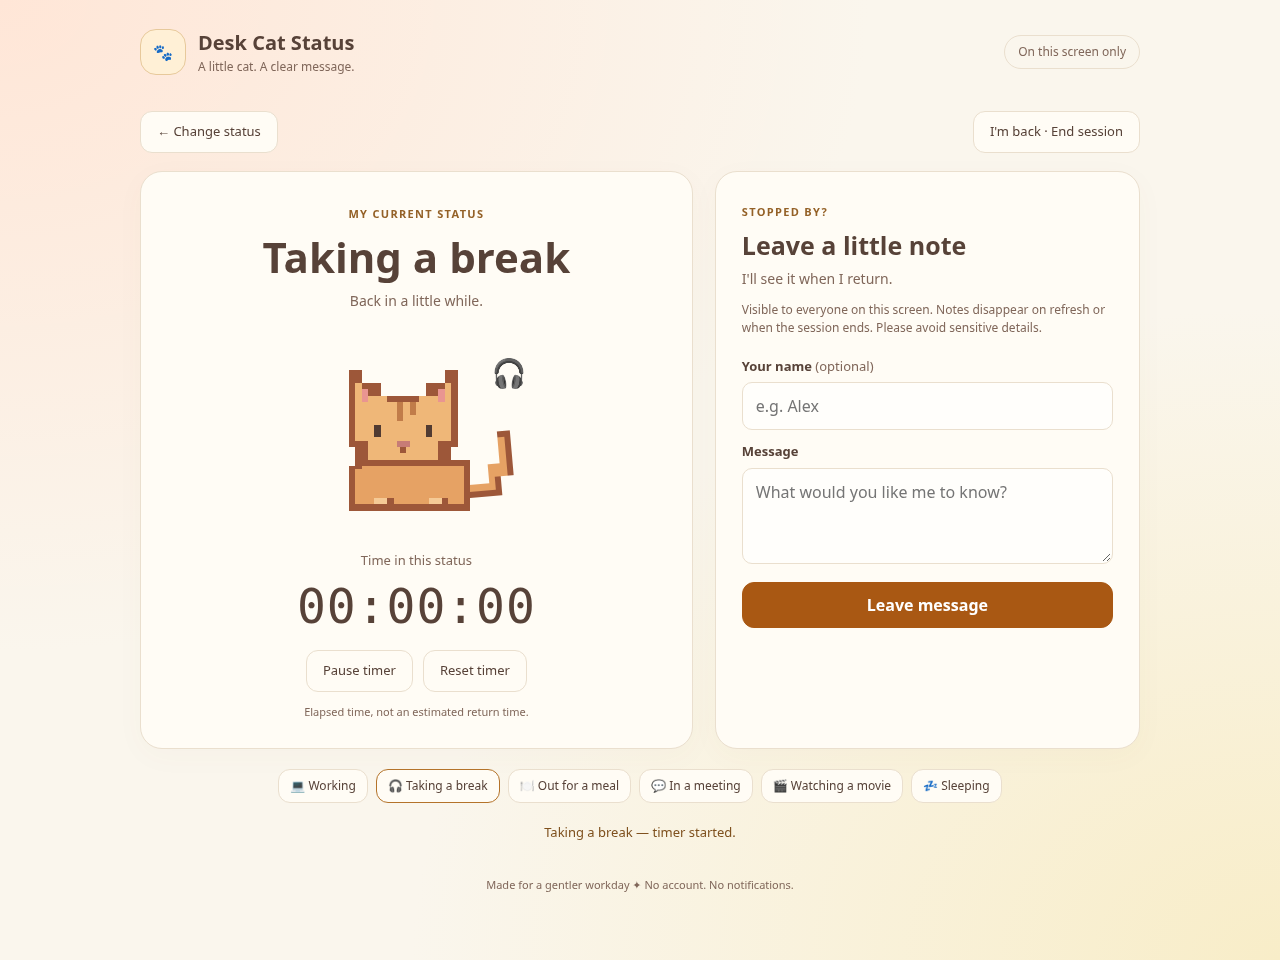
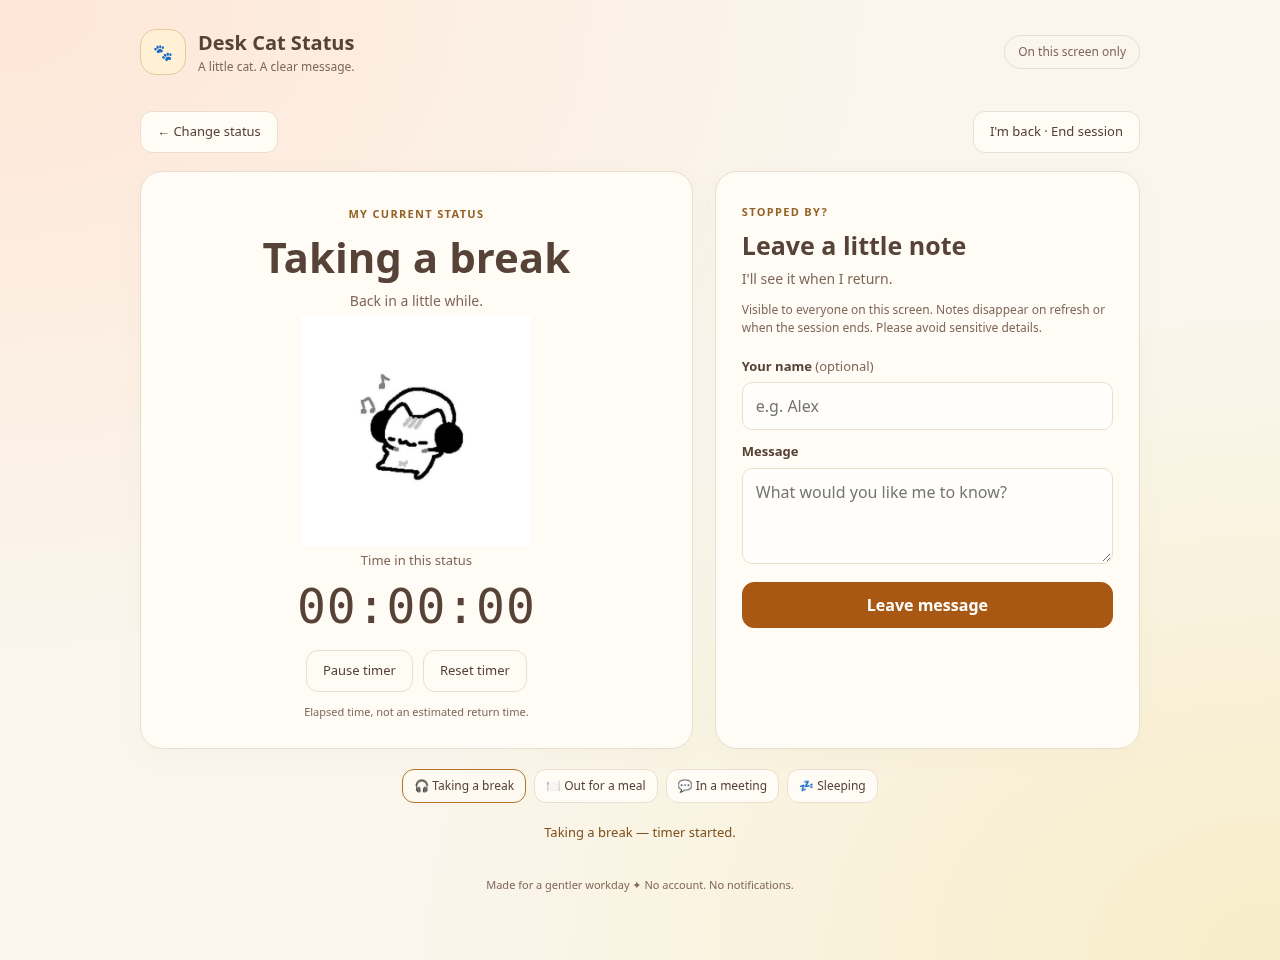
Add five supplied cat GIFs and simplify status choices

Changed region(s): [[0.25, 0.375, 0.4062, 0.5312], [0.2188, 0.7812, 0.7812, 0.8438]]

diff --git a/style.css b/style.css
@@ -1,1 +1,4 @@
 :root{color-scheme:light;--ink:#574238;--muted:#80675a;--border:#eadfce;--paper:#fffcf5;--accent:#a95813}*{box-sizing:border-box}body{margin:0;background:#faf6ed;color:var(--ink);font:16px/1.5 ui-rounded,"Trebuchet MS",system-ui,sans-serif;background-image:radial-gradient(ellipse at 0 0,#ffe6d7,transparent 48%),radial-gradient(ellipse at 100% 100%,#f8edc8,transparent 48%);min-height:100vh}button,input,textarea{font:inherit;color:inherit}button{cursor:pointer;border:1px solid var(--border);border-radius:12px;background:var(--paper);padding:10px 16px;transition:background .2s}button:hover{background:#ffedcf;border-color:#cf9a5e}button:focus-visible,input:focus-visible,textarea:focus-visible{outline:3px solid #9a591b;outline-offset:3px}input,textarea{background:#fffefb;border:1px solid var(--border);border-radius:10px;padding:11px 13px;width:100%;min-width:0}textarea{resize:vertical}h1,h2,p{margin:0}h1{font-size:20px}h2{line-height:1.2}main{max-width:1060px;padding:28px 30px 16px;margin:auto}header{display:flex;align-items:center;justify-content:space-between;gap:16px;margin-bottom:35px}.brand{display:flex;align-items:center;gap:12px}.brand-icon{display:grid;place-items:center;width:46px;height:46px;border:1px solid #e7c99b;border-radius:16px;background:#fff0d6}.brand p,.local{font-size:12px;color:var(--muted)}.local{border:1px solid var(--border);border-radius:30px;padding:7px 13px}.intro{text-align:center;margin:55px auto 30px}.eyebrow{font-size:11px;letter-spacing:.12em;font-weight:700;color:#946127}.intro h2{font-size:clamp(30px,6vw,44px);margin:12px 0}.intro p{color:var(--muted)}.choices{display:grid;grid-template-columns:repeat(3,1fr);gap:12px;max-width:740px;margin:auto}.choice{text-align:left;padding:18px 20px;box-shadow:0 3px 0 #e9decd55}.choice span{display:block;font-size:25px;margin-bottom:8px}.choice strong{display:block;font-size:15px}.choice small{color:var(--muted);font-size:12px}.card{background:var(--paper);border:1px solid var(--border);border-radius:22px;box-shadow:0 7px 30px #7d553408}.custom{max-width:740px;margin:18px auto 0;padding:20px}.custom label{display:block;font-size:13px;font-weight:bold;margin-bottom:8px}.input-row{display:flex;gap:12px}.primary{background:var(--accent);color:#fff;border-color:var(--accent);font-weight:bold;white-space:nowrap}.primary:hover{background:#82400d;color:white}.feedback{font-size:13px;min-height:20px;margin-top:8px}.text-button{display:block;margin:14px auto;border:0;background:none}nav{display:flex;justify-content:space-between;gap:12px;margin-bottom:18px}nav button{font-size:13px}.session-layout{display:grid;grid-template-columns:1.3fr 1fr;gap:22px}.display{text-align:center;padding:28px 22px}.display h2{font-size:clamp(30px,4vw,42px);margin:8px 0;overflow-wrap:anywhere}.display>p{color:var(--muted);font-size:14px}.cat-stage{height:230px;position:relative;width:260px;max-width:100%;margin:5px auto}#cat{display:block;width:100%;height:100%;overflow:hidden}#tail{transform-origin:112px 110px;animation:tail 3s ease-in-out infinite}#catActivity{position:absolute;top:35px;right:20px;font-size:28px}.timer-label{font-size:13px;color:var(--muted)}#pausedLabel{color:#9e4e13;font-weight:bold}#timer{display:block;font:500 clamp(32px,5vw,48px)/1.5 ui-monospace,monospace;font-variant-numeric:tabular-nums;letter-spacing:.02em}.timer-controls{display:flex;justify-content:center;gap:10px;margin:8px 0 12px}.timer-controls button{font-size:13px}.display .hint{font-size:11px}.notes{padding:26px}.notes h2{font-size:25px;margin:8px 0}.notes>p{font-size:14px;color:var(--muted)}.notes .privacy{font-size:12px;margin:12px 0 20px}.notes label{display:block;font-size:13px;font-weight:bold;margin:12px 0 6px}.notes label span{font-weight:normal;color:var(--muted)}.notes form button{margin-top:12px;width:100%}.note{border-top:1px solid var(--border);padding:12px 0;font-size:14px;overflow-wrap:anywhere}.note small{display:block;color:var(--muted);font-size:11px;margin-bottom:5px}.note p{white-space:pre-wrap}.quick{display:flex;justify-content:center;flex-wrap:wrap;gap:8px;margin:20px 0}.quick button{font-size:12px;padding:7px 11px}.quick button[aria-pressed=true]{background:#f9e1bb;border-color:#b4732a}.announcement{min-height:24px;font-size:13px;text-align:center;margin:16px 0;color:#7f511e}.warning{padding:12px;background:#fff0d6;border:1px solid #d8b272;border-radius:12px;margin-bottom:16px;font-size:13px}footer{font-size:11px;text-align:center;color:var(--muted);margin:30px 0 8px}[hidden]{display:none!important}@keyframes tail{0%,100%{transform:rotate(-5deg)}50%{transform:rotate(12deg)}}@media(prefers-reduced-motion:reduce){*,*:before,*:after{animation:none!important;transition:none!important}}@media(max-width:700px){main{padding:20px 16px}.local{display:none}.intro{margin-top:30px}.choices{grid-template-columns:repeat(2,1fr)}.session-layout{grid-template-columns:1fr}.display{padding:24px 16px}.cat-stage{height:200px}.notes{padding:22px}.input-row{gap:8px}nav button{padding:9px 10px;font-size:12px}}
+
+/* Original GIFs retain their aspect ratio in one stable display area. */
+#catGif{display:block;width:100%;height:100%;object-fit:contain}#catStage #cat,#catActivity{display:none}.media-failed #catGif{display:none}#catStage.media-failed #cat{display:block}@media(prefers-reduced-motion:reduce){#catGif{display:none}#catStage #cat{display:block}}

diff --git a/index.html b/index.html
@@ -3,7 +3,7 @@
 <p id="storageWarning" class="warning" role="status" hidden>Session recovery is unavailable. You can still use this page, but refreshing may clear your status. Notes are never saved.</p>
 <section id="selection" aria-labelledby="welcome"><div class="intro"><span class="eyebrow">YOUR DESK, WITH A LITTLE CAT</span><h2 id="welcome">Stepping away?</h2><p>Let your colleagues know what you're up to.<br>Choose a status and we'll keep the time.</p></div><div id="statusChoices" class="choices"></div><form id="customForm" class="custom card"><label for="customStatus">Something else?</label><div class="input-row"><input id="customStatus" maxlength="80" placeholder="e.g. Picking up a parcel" aria-describedby="customError"><button class="primary">Start →</button></div><p id="customError" class="feedback" role="status"></p></form><button id="returnSession" class="text-button" hidden>← Back to current status</button></section>
 <section id="session" aria-labelledby="currentStatus" hidden><nav><button id="switchStatus">← Change status</button><button id="endSession">I'm back · End session</button></nav><div class="session-layout"><div class="display card"><span class="eyebrow">MY CURRENT STATUS</span><h2 id="currentStatus" tabindex="-1"></h2><p id="statusDescription"></p>
-<div class="cat-stage"><svg id="cat" viewBox="0 0 160 144" role="img" aria-labelledby="catTitle" shape-rendering="crispEdges"><title id="catTitle">An orange pixel cat with a gently moving tail</title><g id="tail"><path d="M110 106h16V94h8V74h8v28h-8v12h-24z" fill="#9d5739"/><path d="M114 106h12V94h8V78h4v24h-8v8h-16z" fill="#e6a264"/></g><path d="M42 78h60v12h12v32H38V94h4z" fill="#9d5739"/><path d="M46 82h52v12h12v24H42V96h4z" fill="#e6a264"/><path d="M38 34h8v8h12v8h28v-8h12v-8h8v48h-8v12H46V82h-8z" fill="#9d5739"/><path d="M42 42h4v8h16v4h20v-4h16v-8h4v36h-8v12H50V78h-8z" fill="#efb778"/><path d="M46 46h4v8h-4zm48 0h4v8h-4z" fill="#e99591"/><path d="M68 54h4v12h-4zm8 0h4v8h-4z" fill="#c17c49"/><g id="openEyes" fill="#513b32"><path d="M54 68h4v8h-4zm32 0h4v8h-4z"/></g><g id="sleepEyes" fill="#513b32" hidden><path d="M50 72h12v4H50zm32 0h12v4H82z"/></g><path d="M68 78h8v4h-8z" fill="#c77c76"/><path d="M70 82h4v4h-4zM54 114h12v8H54zm34 0h12v8H88z" fill="#9d5739"/><path d="M54 114h8v4h-8zm34 0h8v4h-8z" fill="#f5ca96"/></svg><span id="catActivity" aria-hidden="true"></span></div>
+<div id="catStage" class="cat-stage"><img id="catGif" alt="Status cat"><svg id="cat" viewBox="0 0 160 144" role="img" aria-labelledby="catTitle" shape-rendering="crispEdges"><title id="catTitle">An orange pixel cat with a gently moving tail</title><g id="tail"><path d="M110 106h16V94h8V74h8v28h-8v12h-24z" fill="#9d5739"/><path d="M114 106h12V94h8V78h4v24h-8v8h-16z" fill="#e6a264"/></g><path d="M42 78h60v12h12v32H38V94h4z" fill="#9d5739"/><path d="M46 82h52v12h12v24H42V96h4z" fill="#e6a264"/><path d="M38 34h8v8h12v8h28v-8h12v-8h8v48h-8v12H46V82h-8z" fill="#9d5739"/><path d="M42 42h4v8h16v4h20v-4h16v-8h4v36h-8v12H50V78h-8z" fill="#efb778"/><path d="M46 46h4v8h-4zm48 0h4v8h-4z" fill="#e99591"/><path d="M68 54h4v12h-4zm8 0h4v8h-4z" fill="#c17c49"/><g id="openEyes" fill="#513b32"><path d="M54 68h4v8h-4zm32 0h4v8h-4z"/></g><g id="sleepEyes" fill="#513b32" hidden><path d="M50 72h12v4H50zm32 0h12v4H82z"/></g><path d="M68 78h8v4h-8z" fill="#c77c76"/><path d="M70 82h4v4h-4zM54 114h12v8H54zm34 0h12v8H88z" fill="#9d5739"/><path d="M54 114h8v4h-8zm34 0h8v4h-8z" fill="#f5ca96"/></svg><span id="catActivity" aria-hidden="true"></span></div>
 <div class="timer-label">Time in this status <span id="pausedLabel" hidden>· Paused</span></div><output id="timer" aria-label="Elapsed time">00:00:00</output><div class="timer-controls"><button id="pauseTimer">Pause timer</button><button id="resetTimer">Reset timer</button></div><p class="hint">Elapsed time, not an estimated return time.</p></div>
 <aside class="notes card" aria-labelledby="notesHeading"><span class="eyebrow">STOPPED BY?</span><h2 id="notesHeading">Leave a little note</h2><p>I'll see it when I return.</p><p class="privacy">Visible to everyone on this screen. Notes disappear on refresh or when the session ends. Please avoid sensitive details.</p><form id="noteForm"><label for="visitorName">Your name <span>(optional)</span></label><input id="visitorName" maxlength="50" placeholder="e.g. Alex"><label for="visitorNote">Message</label><textarea id="visitorNote" maxlength="500" rows="3" placeholder="What would you like me to know?" aria-describedby="noteFeedback"></textarea><button class="primary">Leave message</button><p id="noteFeedback" role="status" class="feedback"></p></form><div id="noteList" aria-label="Visitor messages"></div></aside></div><div id="quickChoices" class="quick" aria-label="Quick status choices"></div></section>
 <p id="announcement" class="announcement" role="status" aria-live="polite"></p><footer>Made for a gentler workday ✦ No account. No notifications.</footer></main></body></html>

diff --git a/app.js b/app.js
@@ -1,10 +1,8 @@
 'use strict';
 const STATES = {
-  work: ['💻', 'Working', 'Focusing — please come back later.'],
   break: ['🎧', 'Taking a break', 'Back in a little while.'],
   eat: ['🍽', 'Out for a meal', 'Away from my desk for a meal.'],
   meeting: ['💬', 'In a meeting', 'Available afterwards.'],
-  movie: ['🎬', 'Watching a movie', 'Enjoying a little screen time.'],
   sleep: ['💤', 'Sleeping', 'Quiet time, please.']
 };
 const $ = id => document.getElementById(id);
@@ -31,6 +29,13 @@ function showSession() {
   $('currentStatus').textContent = session.title;
   $('statusDescription').textContent = STATES[session.key]?.[2] || 'Away from my desk. Please leave a note.';
   $('catActivity').textContent = STATES[session.key]?.[0] || '🐾';
+  const image = $('catGif');
+  const source = `assets/${session.key}.gif`;
+  if (image.getAttribute('src') !== source) {
+    $('catStage').classList.remove('media-failed');
+    image.alt = `Cat illustration for: ${session.title}`;
+    image.src = source;
+  }
   $('openEyes').style.display = session.key === 'sleep' ? 'none' : '';
   $('sleepEyes').style.display = session.key === 'sleep' ? '' : 'none';
   $('sleepEyes').removeAttribute('hidden');
@@ -56,6 +61,10 @@ for (const [key, [emoji, title, description]] of Object.entries(STATES)) {
   const quick = document.createElement('button'); quick.textContent = `${emoji} ${title}`; quick.dataset.status = key;
   quick.addEventListener('click', () => choose(key)); $('quickChoices').append(quick);
 }
+$('catGif').addEventListener('error', () => {
+  $('catStage').classList.add('media-failed');
+  announce('Cat image unavailable. Showing the built-in cat; your status and timer still work.');
+});
 $('customForm').addEventListener('submit', event => {
   event.preventDefault(); const title = $('customStatus').value.trim();
   if (!title) {

diff --git a/README.md b/README.md
@@ -14,7 +14,7 @@ Open `http://127.0.0.1:8000` in a modern browser. Stop with Ctrl+C. You can also
 
 ## Main interaction
 
-Choose working, break, meal, meeting, movie, sleep, or a custom status. A new status starts an elapsed timer. Selecting the same active status keeps its timer. Pause/resume and reset are explicit controls; going back to choose a status does not stop timing. “I'm back” ends the session. The cat stays anchored in a fixed, transparent SVG canvas; only its tail moves. Reduced-motion preferences stop the animation.
+Choose break, meal, meeting, sleep, or a custom status. Each of the five states has its own local GIF in assets/. A new status starts an elapsed timer. Selecting the same active status keeps its timer. Pause/resume and reset are explicit controls; going back to choose a status does not stop timing. “I'm back” ends the session. GIFs keep their original proportions inside a fixed display area. Their original backgrounds and animation are preserved. Missing images fall back to the built-in SVG cat. Reduced-motion preferences replace GIFs with the static SVG cat.
 
 The status and timer recover after refresh if browser local storage is available. Timing uses timestamps rather than counting ticks. Unavailable storage shows a warning while the current session still works. Empty statuses and blank notes show feedback. Notes are visible to everyone at this screen, kept only in memory, and cleared on refresh or ending the session. Changing/resetting status does not delete them. Do not include sensitive information.
 
@@ -22,8 +22,8 @@ The status and timer recover after refresh if browser local storage is available
 
 ## Limits
 
-This is a single-device display, not a shared messaging service. It does not send notifications, authenticate colleagues, keep separate timer histories per status, or keep a computer awake. Timers depend on the device clock. No live site has been published. A real user trial remains to be recorded in PROCESS.md. This is the first working version without GIF assets; future GIF changes should be recorded in separate commits.
+This is a single-device display, not a shared messaging service. It does not send notifications, authenticate colleagues, keep separate timer histories per status, or keep a computer awake. Timers depend on the device clock. No live site has been published. A real user trial remains to be recorded in PROCESS.md. The initial no-GIF version is preserved in Git history; a subsequent commit adds the five supplied GIFs.
 
 ## Credits
 
-Based on the owner-supplied `index.html` prototype; original authorship and previous tool use still need confirmation. The warm palette, two-screen flow, status concept and notes are retained. OpenAI Codex assisted with the offline implementation, original SVG pixel cat, documentation and automated checks. No external art, fonts, libraries or audio are used. See PROCESS.md for decisions and AI disclosure.
+Based on the owner-supplied `index.html` prototype; original authorship and previous tool use still need confirmation. The warm palette, two-screen flow, status concept and notes are retained. OpenAI Codex assisted with the offline implementation, SVG fallback cat, GIF integration, documentation and automated checks. The five GIFs were supplied by the owner in gif.zip; original artists, source links and sharing permissions remain to be documented by the owner. No external fonts, libraries or audio are used. See PROCESS.md for decisions and AI disclosure.

diff --git a/PROCESS.md b/PROCESS.md
@@ -42,3 +42,11 @@ At the owner's request, this working version is being saved as a separate develo
 ## Repository milestone
 
 The owner selected zhufu643/assignment3 as the assignment repository. This commit adds the working no-GIF version on top of its existing README/PROCESS history. Implementation and browser validation were completed in the earlier workspace before copying these web files here. The earlier implementation history is not fabricated or backdated. Future changes and trial-driven revisions should be committed as they occur.
+
+## Development milestone: five supplied GIF states
+
+The owner supplied gif.zip containing five animated GIFs, explicitly mapped to meal, meeting, custom status, sleep and break. This revision adds those original files without re-encoding, removes work/movie choices, and maps custom input to custom.gif. The originals have different dimensions and backgrounds; object-fit: contain preserves their proportions in a fixed display area, but does not remove baked-in backgrounds or correct motion already inside the animations. No frame alignment or transparency edits are claimed. Missing images fall back to the SVG cat. Reduced-motion mode uses the static SVG instead of animated GIFs. Timers and notes remain as before.
+
+Codex assisted with this integration and browser validation. Original GIF authors, source URLs and permission to redistribute remain for the owner to document; the GIF art is not claimed as original work by this project. This is a real second-stage change after the no-GIF commit, not a reconstruction of development history. The real user trial is still pending. Earlier no-external-media statements above describe the first milestone only.
+
+GIF-stage validation: Chromium successfully loaded all five local GIF files in their mapped states. Status selection, repeated selection, pause/resume, refresh recovery, reset, custom input, visitor notes, note-clearing confirmation, 375px layout, blocked/corrupt storage and reduced-motion fallback passed. A deliberately unavailable eat.gif showed the SVG fallback while the status remained usable. No page JavaScript errors were observed. README screenshot was refreshed from this version. JavaScript syntax and whitespace checks passed.
